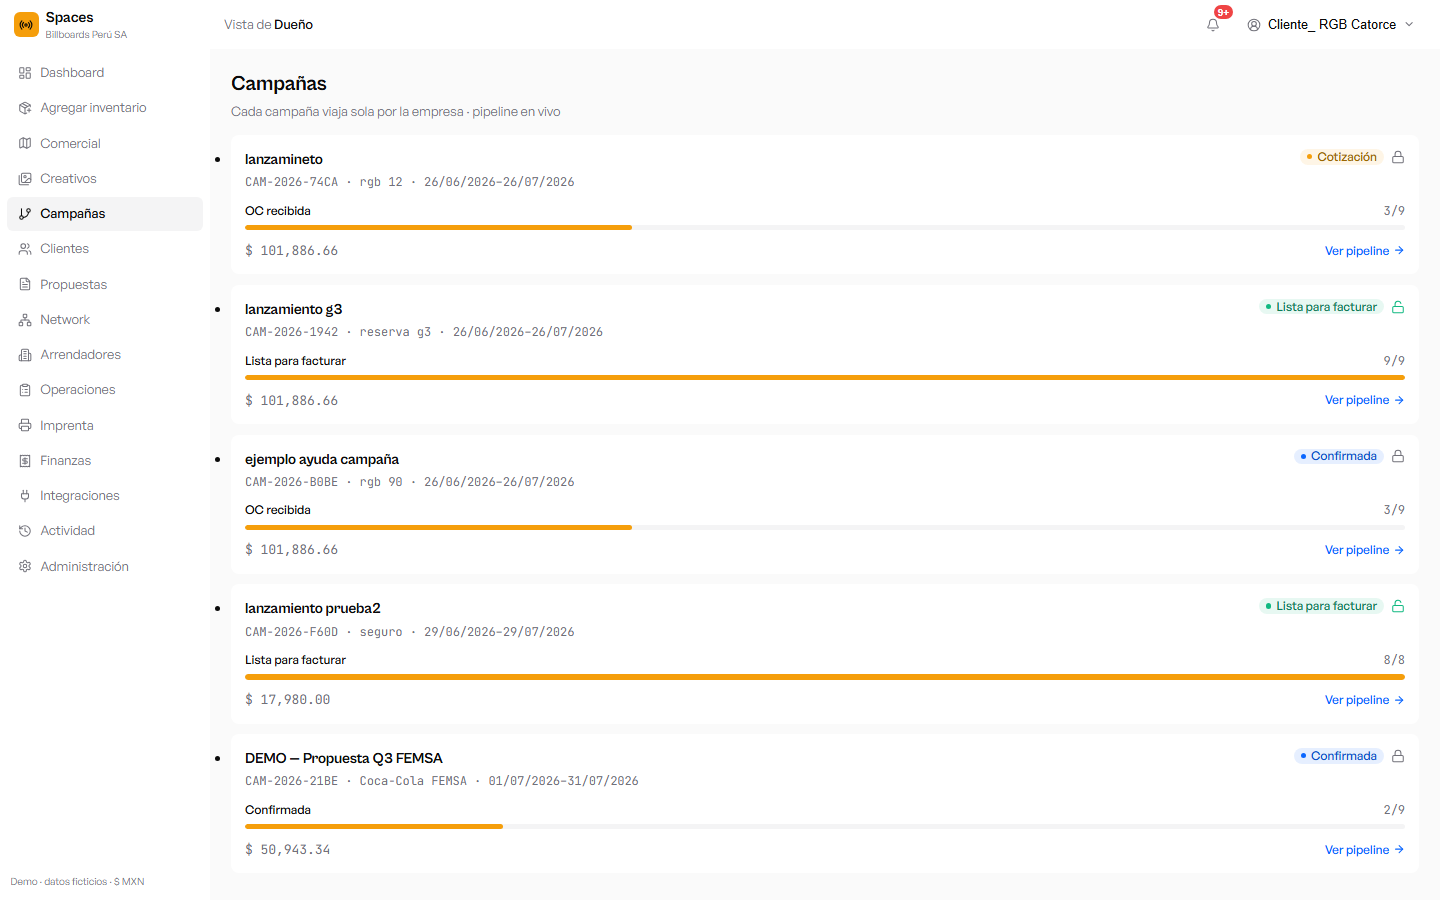
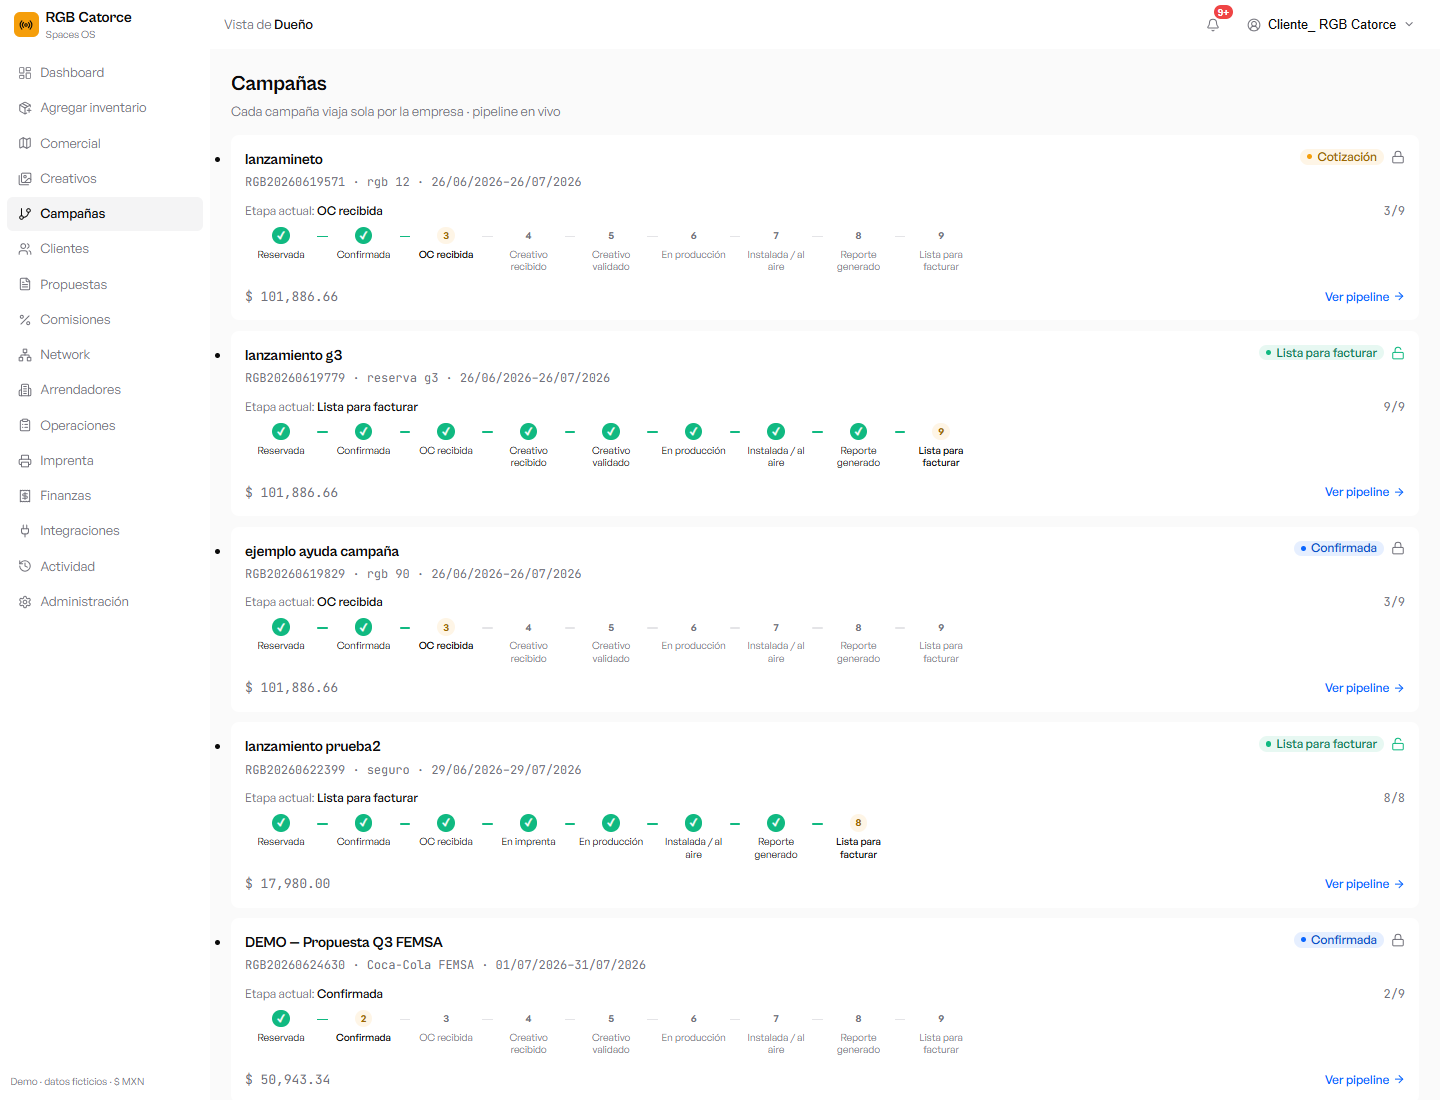
feat(demo): lista de campanas muestra todo el pipeline (stepper) no solo la etapa actual
Cada campana muestra un stepper con TODAS las etapas y como van: completadas
(verde con check), actual (ambar) y pendientes (gris), con conectores. Se
adapta al tipo (DOOH/OOH/hibrida). Captura del manual actualizada.

diff --git a/apps/web/app/demo/(shell)/campanas/page.tsx b/apps/web/app/demo/(shell)/campanas/page.tsx
@@ -13,6 +13,7 @@ import {
   useCampanas,
   useCampanasResumen,
   ETAPA_LABEL,
+  etapasPipeline,
   formatMonto,
   formatFecha,
 } from '@/lib/data/client'
@@ -117,19 +118,48 @@ export default function CampanasPage() {
                       </div>
                     </div>
 
-                    {/* Progreso del pipeline */}
+                    {/* Progreso del pipeline: TODAS las etapas y cómo van */}
                     <div className="mt-3">
-                      <div className="mb-1.5 flex items-center justify-between text-[12px]">
-                        <span className="font-medium text-ink">{ETAPA_LABEL[etapa]}</span>
-                        <span className="demo-num text-muted">
-                          {index + 1}/{totalPasos}
+                      <div className="mb-2 flex items-center justify-between text-[12px]">
+                        <span className="text-muted">
+                          Etapa actual: <span className="font-medium text-ink">{ETAPA_LABEL[etapa]}</span>
                         </span>
+                        <span className="demo-num text-muted">{index + 1}/{totalPasos}</span>
                       </div>
-                      <div className="h-1.5 w-full overflow-hidden rounded-full bg-surface-2">
-                        <div
-                          className="h-full rounded-full bg-accent transition-[width] duration-300"
-                          style={{ width: `${((index + 1) / totalPasos) * 100}%` }}
-                        />
+                      <div className="flex items-start overflow-x-auto pb-1">
+                        {etapasPipeline(c).map((e, i, arr) => {
+                          const done = i < index
+                          const cur = i === index
+                          return (
+                            <div key={e} className="flex items-start">
+                              <div className="flex w-[72px] shrink-0 flex-col items-center text-center">
+                                <span
+                                  className={cn(
+                                    'flex h-5 w-5 items-center justify-center rounded-full border text-[10px] font-semibold',
+                                    done
+                                      ? 'border-success bg-success text-white'
+                                      : cur
+                                        ? 'border-accent bg-[#f59e0b1a] text-[#9a6700]'
+                                        : 'border-border bg-surface text-muted',
+                                  )}
+                                >
+                                  {done ? '✓' : i + 1}
+                                </span>
+                                <span
+                                  className={cn(
+                                    'mt-1 text-[10px] leading-tight',
+                                    cur ? 'font-medium text-ink' : done ? 'text-ink' : 'text-muted',
+                                  )}
+                                >
+                                  {ETAPA_LABEL[e]}
+                                </span>
+                              </div>
+                              {i < arr.length - 1 && (
+                                <span className={cn('mt-2.5 h-0.5 w-3 shrink-0 rounded-full', i < index ? 'bg-success' : 'bg-border')} />
+                              )}
+                            </div>
+                          )
+                        })}
                       </div>
                     </div>
 